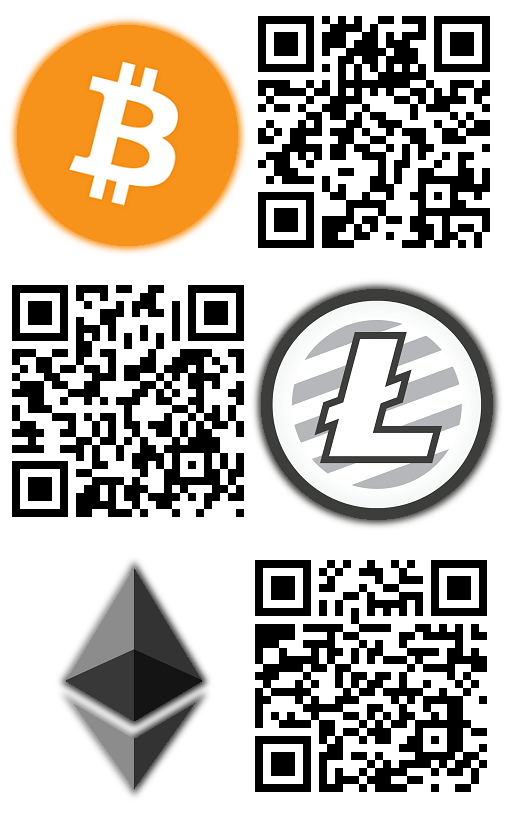
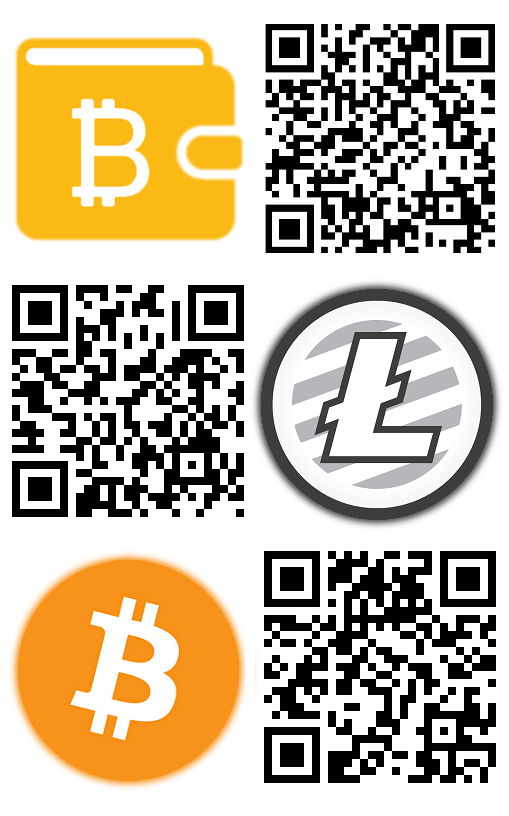
remove ETH add BCH

diff --git a/stream.md b/stream.md
@@ -49,9 +49,9 @@ nav-menu: true
 	<p>
 		Help support Glen in doing what he loves - playing chess!<br />
 		<br />
-		<b>BTC</b>: 1FWF9im2ihgHjdc7tEr2AgGZpdn8AmTQqw <br />
+		<b>BCH</b>: 1L3EU56YXyntiuu4J4FAZ7nQM5Ke5DhSm5 <br />
 		<b>LTC</b>: LVnzEZSQe5TY2cyMRzZaktm9jYia9ca7NR <br />
-		<b>ETH</b>: 0xBfdc73b861f8cA084C5cF983864cCe233E38a15f <br />
+		<b>BTC</b>: 1FWF9im2ihgHjdc7tEr2AgGZpdn8AmTQqw <br />		
 		<img src="assets/images/crypto.png" alt="" data-position="top center"/><br />
 		<br />
 		<b>PayPal Gift:</b> nicegg@yahoo.com <br />
